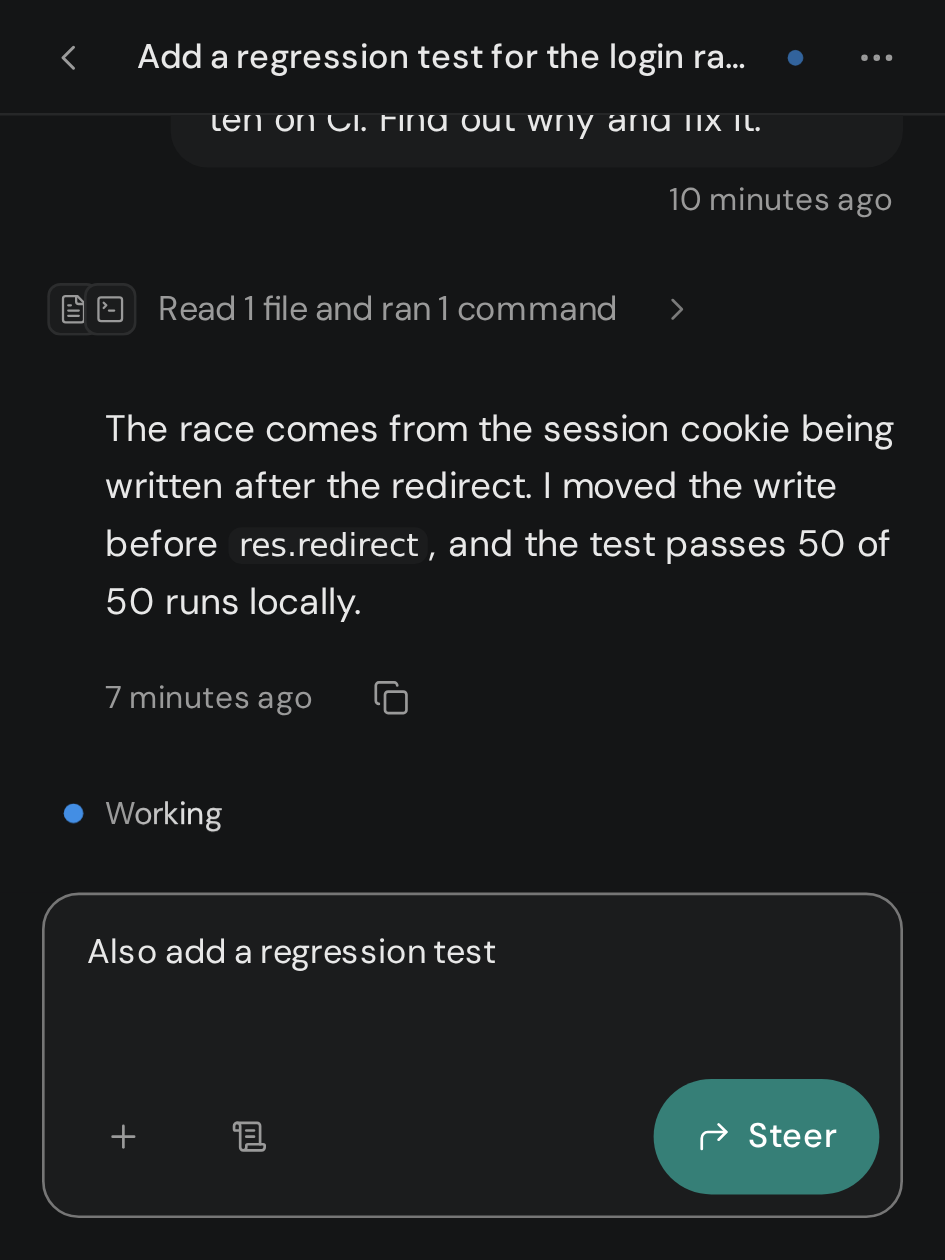
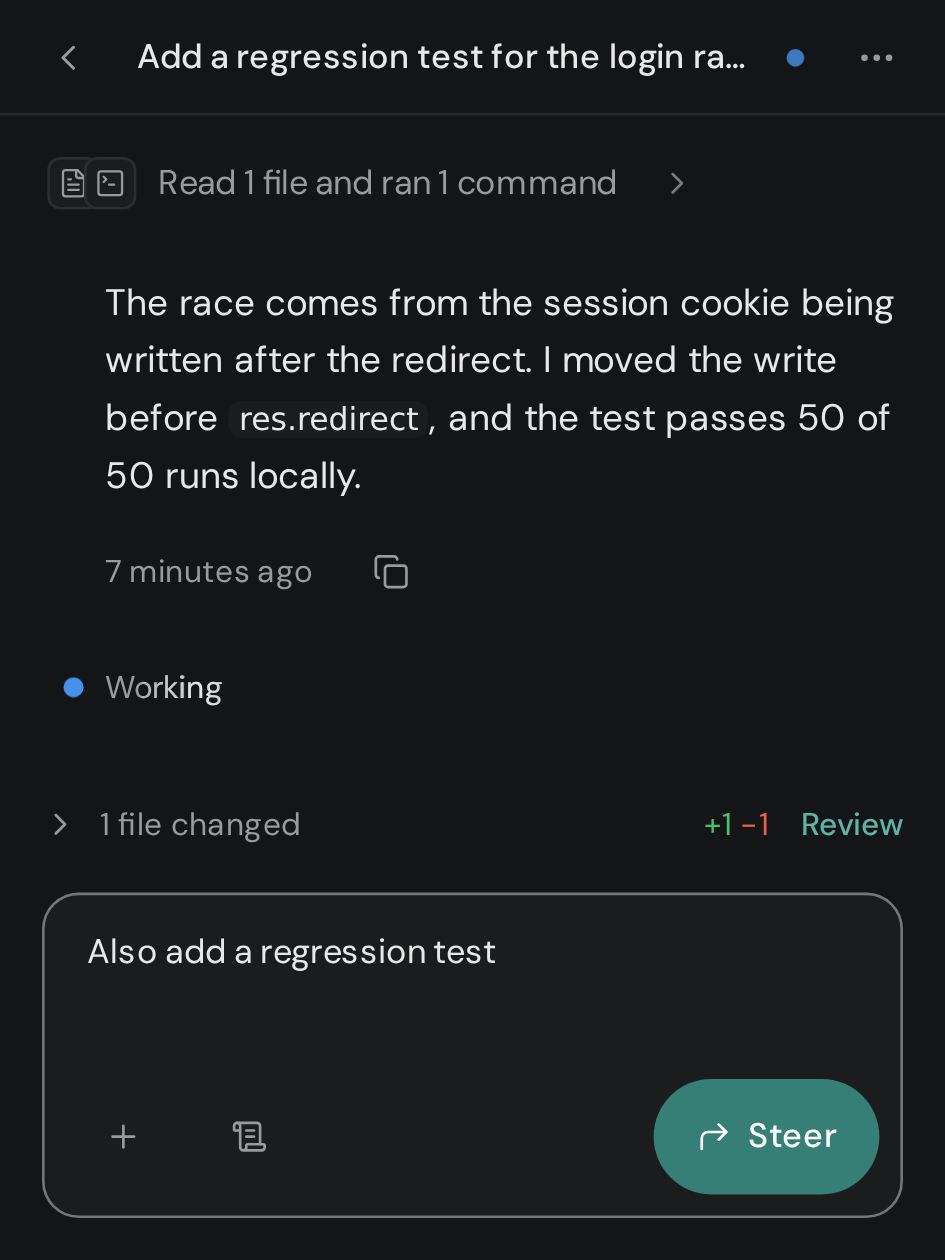
fix(dashboard): leave a phone Chat one filled button and no pull request row
Design review round 2: with a request open, Chat showed the header's
action and the card's answer as two filled buttons, and the pull
request row on Changes repeated what the git card below it shows. The
header's action is outlined while Chat shows an open request, and the
phone header drops the pull request.

diff --git a/web/src/routes/run/phone-header.tsx b/web/src/routes/run/phone-header.tsx
@@ -45,7 +45,7 @@ function leave(entered: number) {
   else useStore.getState().navigate('sessions')
 }
 
-export function PhoneRunHeader({ run, view, views, nav, agentName, keyboard, primary, detailsOpen, onDetails, onWorkflow, extra, pullRequest }: {
+export function PhoneRunHeader({ run, view, views, nav, agentName, keyboard, primary, detailsOpen, onDetails, onWorkflow, extra }: {
   run: RunRecord
   view: RunView
   views: RunView[]
@@ -57,11 +57,12 @@ export function PhoneRunHeader({ run, view, views, nav, agentName, keyboard, pri
   onDetails: (opener: HTMLElement | null) => void
   onWorkflow?: (opener: HTMLElement | null) => void
   extra: ExtraItem[]
-  pullRequest: React.ReactNode
 }) {
   const shown = useRunPresentation(run)
   const [entered] = useState(historyDepth)
   const assistant = useAssistantAvailable()
+  // Chat shows an open request's own card, whose answer is the screen's one filled button.
+  const asking = useStore((s) => (s.acpSessions[run.id]?.pending.length ?? 0) > 0)
   const totals = useStore(useShallow((s) => {
     const snapshot = s.diffs[run.id]?.snapshots[0] ?? s.diffs[run.id]?.persisted
     return snapshot?.truncated ? undefined : diffTotals(snapshot?.files)
@@ -98,7 +99,7 @@ export function PhoneRunHeader({ run, view, views, nav, agentName, keyboard, pri
             </span>
           </p>
         </div>
-        {primary && !keyboard && <Button size="sm" onClick={primary.act}>{primary.label}</Button>}
+        {primary && !keyboard && <Button size="sm" variant={asking && view === 'session' ? 'secondary' : 'primary'} onClick={primary.act}>{primary.label}</Button>}
         <RunActions run={run} compact views={[...elsewhere, ...panels]} extra={extra} />
       </header>
       {!keyboard && (
@@ -114,9 +115,6 @@ export function PhoneRunHeader({ run, view, views, nav, agentName, keyboard, pri
             ))}
           </TabsList>
         </div>
-      )}
-      {!keyboard && view === 'changes' && pullRequest && (
-        <div className="flex h-11 shrink-0 items-center border-b border-seam px-2">{pullRequest}</div>
       )}
       <ConnectionLine className="border-b border-seam px-4 py-1" />
     </>

diff --git a/web/src/routes/run/session-rows.tsx b/web/src/routes/run/session-rows.tsx
@@ -191,7 +191,7 @@ function UserRow({ row, ctx, name }: { row: Extract<SessionRow, { kind: 'user' }
       attachments={row.images?.length || row.files?.length ? <MessageAttachments runID={ctx.runID} images={row.images} files={row.files} /> : undefined}
       meta={
         <>
-          {author && <span aria-hidden>·</span>}
+          {author && <span aria-hidden className="-ml-1">·</span>}
           {row.delivery && (
             <>
               <span className={cn('shrink-0', (row.delivery === 'Not sent' || row.delivery === 'Denied') && 'text-state-failed')}>

diff --git a/web/src/routes/run/header.tsx b/web/src/routes/run/header.tsx
@@ -325,7 +325,6 @@ export function RunHeader({
           onDetails={onDetails}
           onWorkflow={onWorkflow}
           extra={extra}
-          pullRequest={pullRequest.status}
         />
         {!composing && <WaitLine run={run} />}
         {!composing && <RunLineage run={run} />}

diff --git a/docs/dashboard-frontend.md b/docs/dashboard-frontend.md
@@ -600,8 +600,8 @@ mode), the header's primary action when there is one, and **More**. Under it
 the tabs **Chat**, **Terminal** and **Changes** fill a 44px row; a Standard
 session orders them **Terminal**, **Chat**, **Changes**. **Changes** carries
 the muted `+N −M` of the latest snapshot, unless it was truncated, and drops
-it below 400px while a fourth tab shows. The pull request, which would crowd
-the tabs, sits in a 44px row of its own under them on the Changes tab only. **More** opens with a **Views** group
+it below 400px while a fourth tab shows. A phone header carries no pull
+request: the Changes tab's git card shows it. **More** opens with a **Views** group
 (Trace, Files, Browser, **Session details**, **Workflow**, **Search…**,
 **Assistant**), then the session's commands, Captures and Raw events; a view
 opened from there joins the tabs while it shows. Close, Stop and Delete in **More**
@@ -629,7 +629,8 @@ toasts fall back to the bottom safe area. The Chat
 composer is the desktop `ComposerBox`, padded by `--keyboard-inset`
 (`src/lib/keyboard-inset.ts`) so it sits above an iOS keyboard as well.
 While a request is open, the request card holds the one filled button: its
-answers fill the card's width, and the composer's **Interrupt** is outlined.
+answers fill the card's width, and on Chat the header's action and the
+composer's **Interrupt** are outlined.
 
 ### Assistant panel
 
